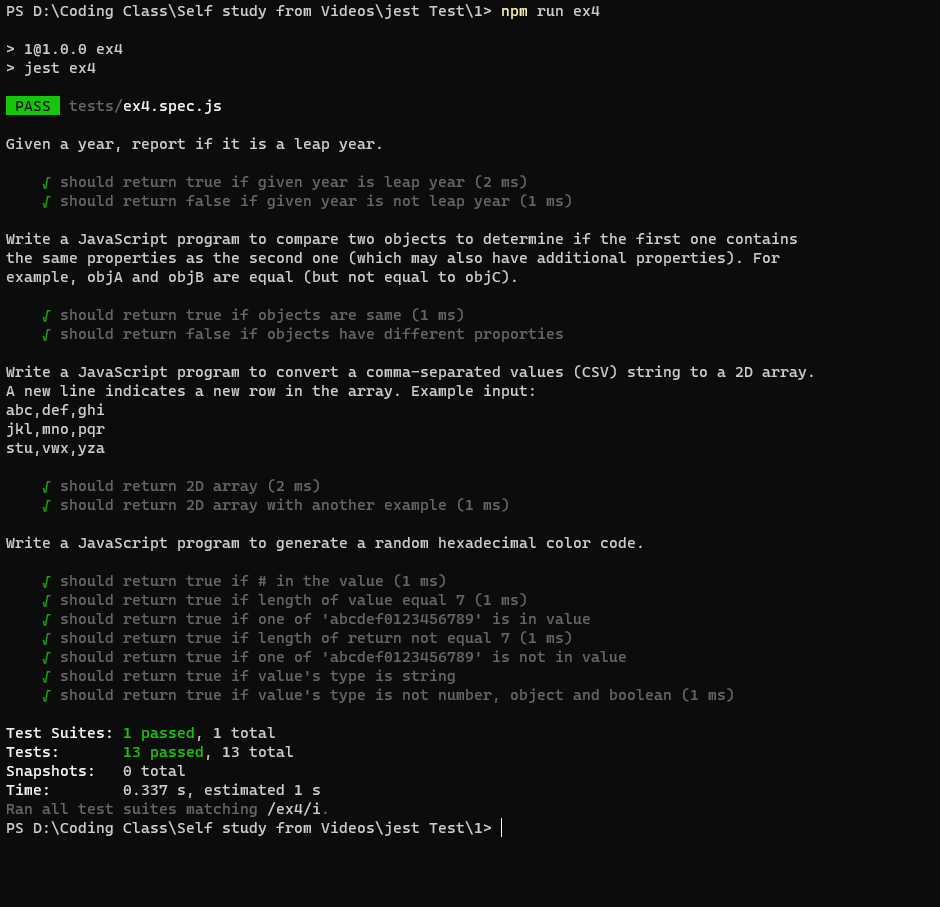
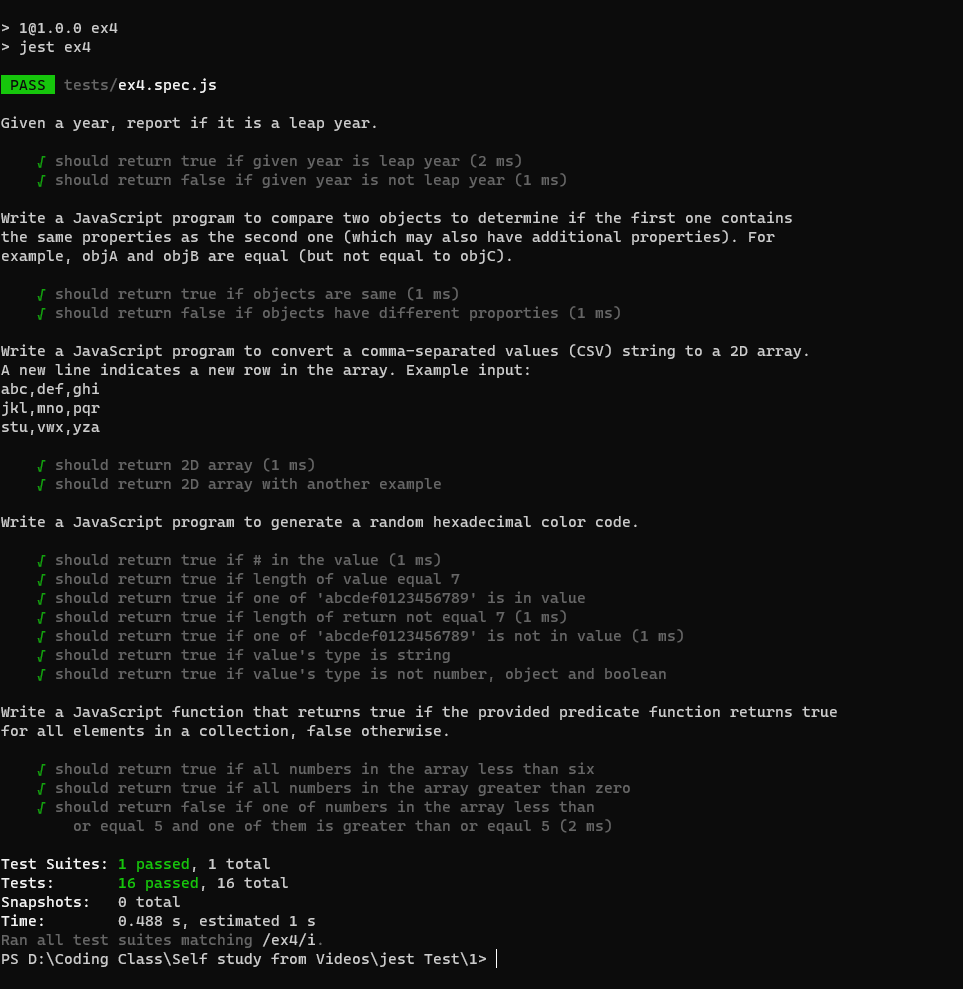
I have finished ex4.js and started ex5.js file, unit testing on progress

diff --git a/tests/ex4.spec.js b/tests/ex4.spec.js
@@ -1,5 +1,5 @@
 // @ts-nocheck
-const { ex1, ex2, ex3, ex4 } = require("../masalalar/ex4");
+const { ex1, ex2, ex3, ex4, ex5 } = require("../masalalar/ex4");
 
 describe(`
 Given a year, report if it is a leap year.
@@ -141,5 +141,37 @@ Write a JavaScript program to generate a random hexadecimal color code.
     expect(typeof result).not.toBe("number");
     expect(typeof result).not.toEqual("object");
     expect(typeof result).not.toMatch("boolean");
+  });
+});
+
+describe(`
+Write a JavaScript function that returns true if the provided predicate function returns true
+for all elements in a collection, false otherwise.
+`, () => {
+  test("should return true if all numbers in the array less than six", () => {
+    let tempArr = [1, 2, 3, 4, 5];
+    let tempNum = 6;
+    let result = ex5(tempArr, (arr) => arr.every((x) => x < tempNum));
+    expect(result).toBe(true);
+    expect(result).toEqual(true);
+  });
+
+  test("should return true if all numbers in the array greater than zero", () => {
+    let tempArr = [1, 2, 3, 4, 5];
+    let tempNum = 0;
+    let result = ex5(tempArr, (arr) => arr.every((x) => x > tempNum));
+    expect(result).toBe(true);
+    expect(result).toEqual(true);
+  });
+
+  test("should return false if one of numbers in the array less than \
+    \n\tor equal 5 and one of them is greater than or eqaul 5", () => {
+    let tempArr = [1, 2, 3, 4, 5, 7, 6];
+    let tempNum = 5;
+    let result = ex5(tempArr, (arr) => arr.every((x) => x <= tempNum));
+    expect(result).toBe(false);
+    expect(result).toEqual(false);
+    expect(result).not.toBe(true);
+    expect(result).not.toEqual(true);
   });
 });

diff --git a/tests/ex5.test.js b/tests/ex5.test.js
@@ -1,0 +1,37 @@
+// @ts-nocheck
+const { ex1 } = require("../masalalar/ex5");
+
+describe(`
+Write a JavaScript function that returns a passed string with letters in alphabetical order.
+Example string: 'webmaster'
+Expected Output: 'abeemrstw'
+`, () => {
+  test('should return "aadefhijpqrsw" if argument is "adfajsrewqpih"', () => {
+    let tempStr = "adfajsrewqpih";
+    let result = ex1(tempStr);
+    expect(result).toBe("aadefhijpqrsw");
+    expect(result).toEqual("aadefhijpqrsw");
+  });
+  test('should return "adfjknsvxz" if argument is "dsafjkzxnv"', () => {
+    let tempStr = "dsafjkzxnv";
+    let result = ex1(tempStr);
+    expect(result).toBe("adfjknsvxz");
+    expect(result).toEqual("adfjknsvxz");
+  });
+  test('should return "aahilnpsvxz" if argument is "zxnvlsaihpa"', () => {
+    let tempStr = "zxnvlsaihpa";
+    let result = ex1(tempStr);
+    expect(result).toBe("aahilnpsvxz");
+    expect(result).toEqual("aahilnpsvxz");
+  });
+  test("should not return 'Aadefhijpqrsw', should return 'aAdefhijpqrsw' if argument is 'Adfajsrewqpih'", () => {
+    let tempStr = "Adfajsrewqpih";
+    let result = ex1(tempStr);
+    expect(result).not.toBe("Aadefhijpqrsw");
+    expect(result).not.toEqual("Aadefhijpqrsw");
+    expect(result).toBe("aAdefhijpqrsw");
+    expect(result).toEqual("aAdefhijpqrsw");
+  });
+});
+
+// console.log(ex1("Adfajsrewqpih")); // aAdefhijpqrsw

diff --git a/masalalar/ex4.js b/masalalar/ex4.js
@@ -21,9 +21,16 @@ const ex4 = () => {
   return result;
 };
 
+// ex5;
+const ex5 = (
+  /** @type {number[]} */ arr,
+  /** @type {(arg: number[]) => Boolean} */ fn
+) => fn(arr) || false;
+
 module.exports = {
   ex1,
   ex2,
   ex3,
   ex4,
+  ex5,
 };

diff --git a/masalalar/ex5.js b/masalalar/ex5.js
@@ -1,0 +1,12 @@
+// ex1
+const ex1 = (/** @type {string} */ str) =>
+  str
+    .split("")
+    .sort((/** @type {string} */ a, /** @type {string} */ b) =>
+      a.localeCompare(b)
+    )
+    .join("");
+
+module.exports = {
+  ex1,
+};

diff --git a/README.md b/README.md
@@ -18,6 +18,10 @@
 
 <img src="./pictures/ex4result.png" alt="ex4result" />
 
+# ex5.js file and ex5.test.js
+
+<img src="./pictures/ex5result.png" alt="ex5result" />
+
 # All Results
 
 <img src="./pictures/allresult.png" alt="allresult" />
